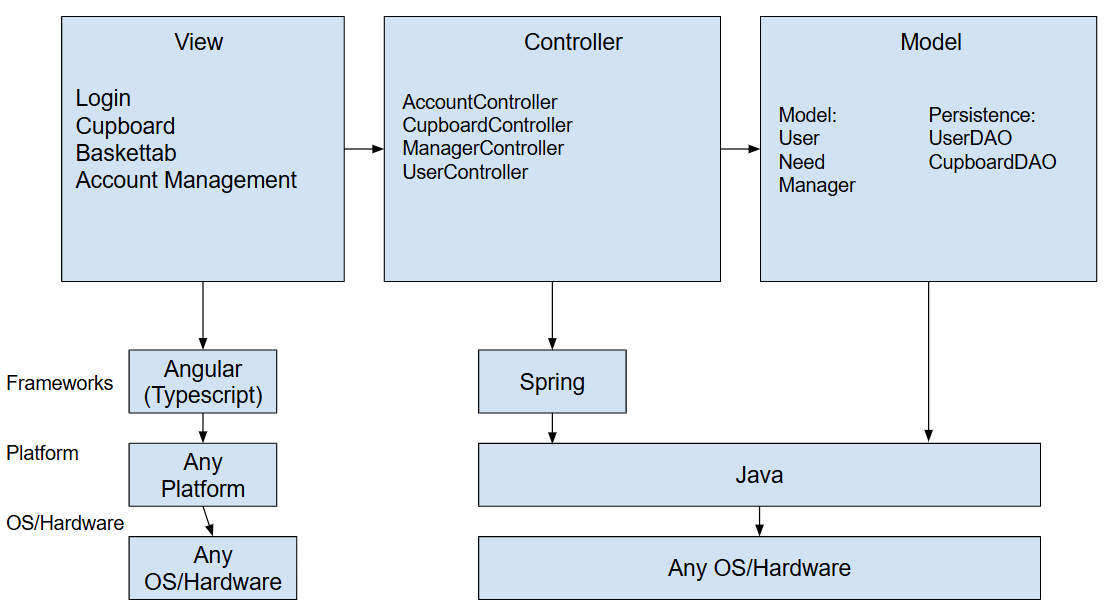
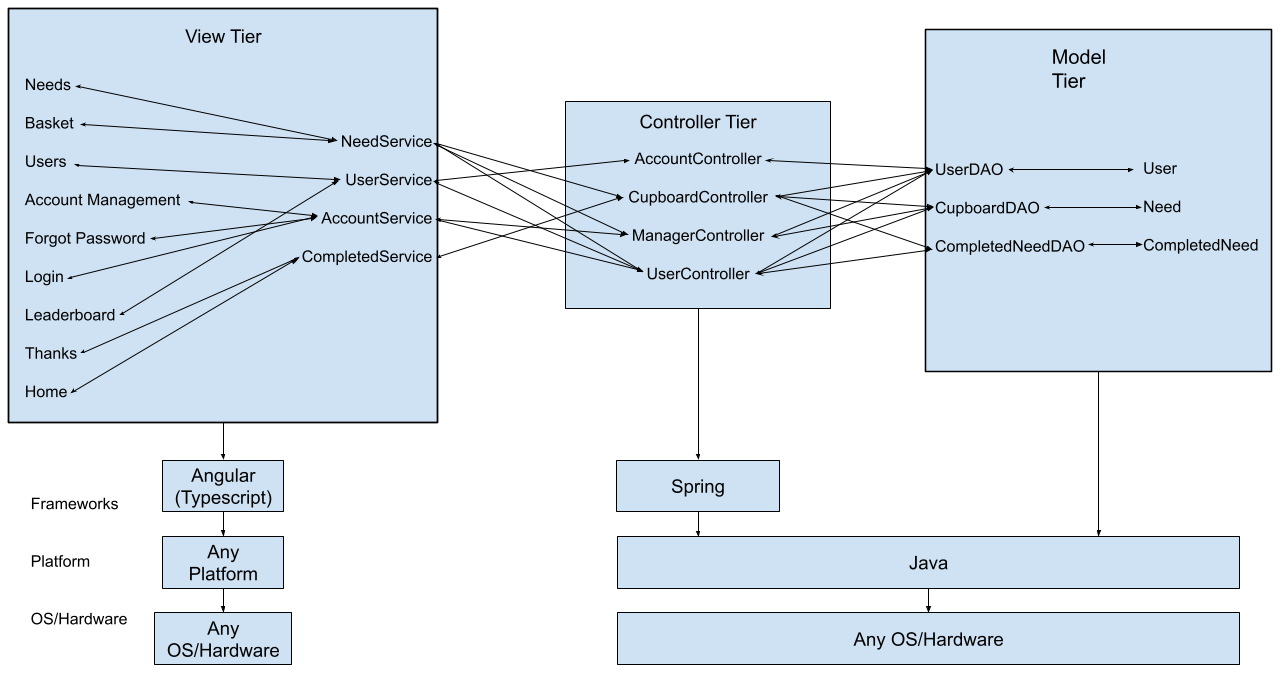
Updated architecture diagram and controller uml diagram

diff --git a/docs/DesignDoc.md b/docs/DesignDoc.md
@@ -143,7 +143,7 @@ User Controller - Provides API functionality to for all Helper and mass user rel
 > _At appropriate places as part of this narrative provide **one** or more updated and **properly labeled**
 > static models (UML class diagrams) with some details such as associations (connections) between classes, and critical attributes and methods. (**Be sure** to revisit the Static **UML Review Sheet** to ensure your class diagrams are using correct format and syntax.)_
 > 
-![Controller UML Diagram](Controller-UML.png)
+![Controller UML Diagram](controller.png)
 
 ### Model Tier
 
@@ -155,12 +155,7 @@ UserDAO: The UserDAO provides functions to store and edit users.<br>
 CupboardDAO: The CupboardDAO provides functions to store and edit the cupboard.<br>
 CompletedNeedDAO: Provides functions to store and edit the completedneed catalog.
 
-
 In this tier, interaction with the raw data is done and manipulated. The methods in the classes here are used in the Controllers to accomplish their goals.
-
-> _At appropriate places as part of this narrative provide **one** or more updated and **properly labeled**
-> static models (UML class diagrams) with some details such as associations (connections) between classes, and critical attributes and methods. (**Be sure** to revisit the Static **UML Review Sheet** to ensure your class diagrams are using correct format and syntax.)_
-> 
 
 ![Model UML Diagram](model.png)
 
